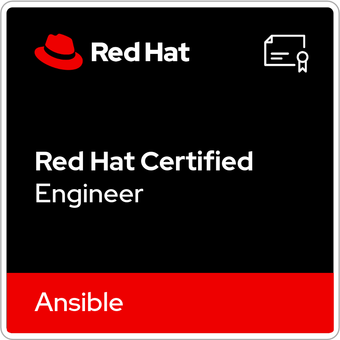
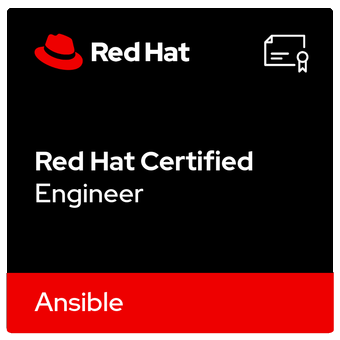
Trim to 3 cert cards, remove white badge frames, recruiter-friendly copy
- Certifications: RHCSA, RHCE (Ansible badge), OpenShift Virtualization;
  drop the Enterprise Linux RHCE and Advanced Ansible cards
- Flood-fill the white/gray frame baked into the badge art to transparent
  so badges sit clean on the dark theme; drop unused badge files
- Rewrite whoami, homelab, and skill one-liners with more punch

Claude-Session: https://claude.ai/code/session_01K22FYuVYsh2uyuEdXvncT5

Changed region(s): [[0.0, 0.0, 1.0, 1.0]]

diff --git a/index.html b/index.html
@@ -37,15 +37,14 @@
 <section id="about" class="section">
   <h2><span class="prompt" aria-hidden="true">$</span> whoami</h2>
   <p>
-    I'm a <strong>Senior Linux System Administrator</strong> based in the Czech Republic, with over 8 years of
-    professional experience managing enterprise Linux environments. I specialize in the Red Hat ecosystem,
-    Ansible automation, and OpenShift container platforms, focused on infrastructure that is reliable,
-    automated, and easy to operate at scale.
+    I'm a <strong>Senior Linux System Administrator</strong> from the Czech Republic with 8+ years of keeping
+    enterprise Linux fast, secure, and boring — in the best possible way. My home turf is the Red Hat
+    ecosystem: RHEL at scale, end-to-end Ansible automation, and OpenShift container platforms.
   </p>
   <p>
-    Alongside professional work, I maintain a production-like homelab where I continuously test networking,
-    identity management, monitoring, and self-hosted services in realistic conditions. Open source is not a
-    preference for me, it is my default engineering approach.
+    If it can be automated, I automate it. If it can break, I monitor it. Open source isn't a preference —
+    it's my default engineering approach, proven daily both at work and in an always-on, production-grade
+    homelab.
   </p>
 </section>
 
@@ -73,41 +72,15 @@
       </div>
     </div>
 
-    <!-- RHCE -->
+    <!-- RHCE (Ansible) -->
     <div class="cert-card">
-      <a class="cert-badge" href="https://www.credly.com/badges/03a46623-c9f6-402a-b62f-3ccf5efe6901" target="_blank" rel="noopener">
-        <img src="static/badges/rhce.png"
+      <a class="cert-badge" href="https://www.credly.com/badges/4d5bcb32-4c9c-4fe3-8deb-33f613a5773c" target="_blank" rel="noopener">
+        <img src="static/badges/ansible.png"
              alt="RHCE badge" class="cert-img" width="160" height="160" loading="lazy" />
       </a>
       <div class="cert-label">
         <strong>RHCE</strong>
-        <span class="cert-name">Red Hat Certified Engineer</span>
-        <span class="cert-dates">valid until 2028</span>
-      </div>
-    </div>
-
-    <!-- RHCE in Ansible -->
-    <div class="cert-card">
-      <a class="cert-badge" href="https://www.credly.com/badges/4d5bcb32-4c9c-4fe3-8deb-33f613a5773c" target="_blank" rel="noopener">
-        <img src="static/badges/ansible.png"
-             alt="RHCE in Ansible badge" class="cert-img" width="160" height="160" loading="lazy" />
-      </a>
-      <div class="cert-label">
-        <strong>RHCE in Ansible</strong>
         <span class="cert-name">Red Hat Certified Engineer in Ansible</span>
-        <span class="cert-dates">valid until 2028</span>
-      </div>
-    </div>
-
-    <!-- Advanced System Administrator in Ansible -->
-    <div class="cert-card">
-      <a class="cert-badge" href="https://www.credly.com/badges/47ffbbdb-0f67-438d-b89f-dcff8a09c133" target="_blank" rel="noopener">
-        <img src="static/badges/advansible.png"
-             alt="Advanced Ansible badge" class="cert-img" width="160" height="160" loading="lazy" />
-      </a>
-      <div class="cert-label">
-        <strong>Advanced Ansible</strong>
-        <span class="cert-name">Red Hat Certified Advanced System Administrator in Ansible</span>
         <span class="cert-dates">valid until 2028</span>
       </div>
     </div>
@@ -133,7 +106,7 @@
   <div class="skills-grid">
     <div class="skill-group">
       <h3>Systems</h3>
-      <p class="skill-context">Administration of reliable production systems with focus on stability and performance.</p>
+      <p class="skill-context">Production systems that stay up — stable, patched, and predictable.</p>
       <ul>
         <li>RHEL / Debian</li>
         <li>Proxmox VE / KVM &amp; LXC</li>
@@ -142,7 +115,7 @@
     </div>
     <div class="skill-group">
       <h3>Automation</h3>
-      <p class="skill-context">Automation-first approach to reduce manual work and deliver repeatable operations.</p>
+      <p class="skill-context">If I have to do it twice, Ansible does it the third time.</p>
       <ul>
         <li>Ansible</li>
         <li>Python</li>
@@ -151,7 +124,7 @@
     </div>
     <div class="skill-group">
       <h3>Identity &amp; Access</h3>
-      <p class="skill-context">Design and operation of centralized identity and secure access management.</p>
+      <p class="skill-context">One identity, everywhere — centralized auth done right.</p>
       <ul>
         <li>FreeIPA</li>
         <li>Keycloak</li>
@@ -160,7 +133,7 @@
     </div>
     <div class="skill-group">
       <h3>Databases &amp; Monitoring</h3>
-      <p class="skill-context">Reliable data services and infrastructure observability for proactive operations.</p>
+      <p class="skill-context">If it moves, it's monitored. If it stores data, it's backed up.</p>
       <ul>
         <li>MariaDB</li>
         <li>PostgreSQL</li>
@@ -169,7 +142,7 @@
     </div>
     <div class="skill-group">
       <h3>Cloud</h3>
-      <p class="skill-context">Experience with cloud environments and hybrid platform operations.</p>
+      <p class="skill-context">Hybrid by design — from on-prem metal to managed cloud.</p>
       <ul>
         <li>Oracle Cloud</li>
         <li>AKS (Azure)</li>
@@ -178,7 +151,7 @@
     </div>
     <div class="skill-group">
       <h3>Networking</h3>
-      <p class="skill-context">Secure network design focused on segmentation, connectivity, and service availability.</p>
+      <p class="skill-context">Segmented, encrypted, and reachable — in that order.</p>
       <ul>
         <li>OpenWRT</li>
         <li>OpenVPN</li>
@@ -192,18 +165,18 @@
 <section id="homelab" class="section">
   <h2><span class="prompt" aria-hidden="true">$</span> homelab</h2>
   <p>
-    My homelab is a long-running, production-like environment for practical experimentation. I use it to
-    validate automation patterns, test new tools safely, and improve operational workflows before applying
-    ideas more broadly.
+    This is not a weekend project. My homelab is an always-on, production-like platform with real services,
+    real monitoring, and real network segmentation — where every automation pattern and new tool has to earn
+    its place before I trust it near a production system.
   </p>
   <p>
-    It is not a one-time lab project but an always-on platform with real services, monitoring, and network
-    segmentation, giving me continuous hands-on practice across Linux, virtualization, and DevOps operations.
+    The result: continuous hands-on practice across Linux, virtualization, networking, and DevOps operations,
+    365 days a year.
   </p>
   <div class="skills-grid">
     <div class="skill-group">
       <h3>Virtualization</h3>
-      <p class="skill-context">Efficient workload isolation and hosting for both system and application services.</p>
+      <p class="skill-context">Every service in its own box — VMs, containers, and everything between.</p>
       <ul>
         <li>Proxmox VE</li>
         <li>KVM</li>
@@ -213,7 +186,7 @@
     </div>
     <div class="skill-group">
       <h3>Networking</h3>
-      <p class="skill-context">Practical network architecture with secure remote access and internal name resolution.</p>
+      <p class="skill-context">Enterprise patterns at home: firewalled, VPN-only, own DNS.</p>
       <ul>
         <li>Turris OS</li>
         <li>nftables</li>
@@ -223,7 +196,7 @@
     </div>
     <div class="skill-group">
       <h3>Services</h3>
-      <p class="skill-context">Continuous operation of self-hosted services with emphasis on reliability and maintainability.</p>
+      <p class="skill-context">Self-hosted and always on — because the lights literally depend on it.</p>
       <ul>
         <li>Home Assistant</li>
         <li>Zigbee/Thread</li>
